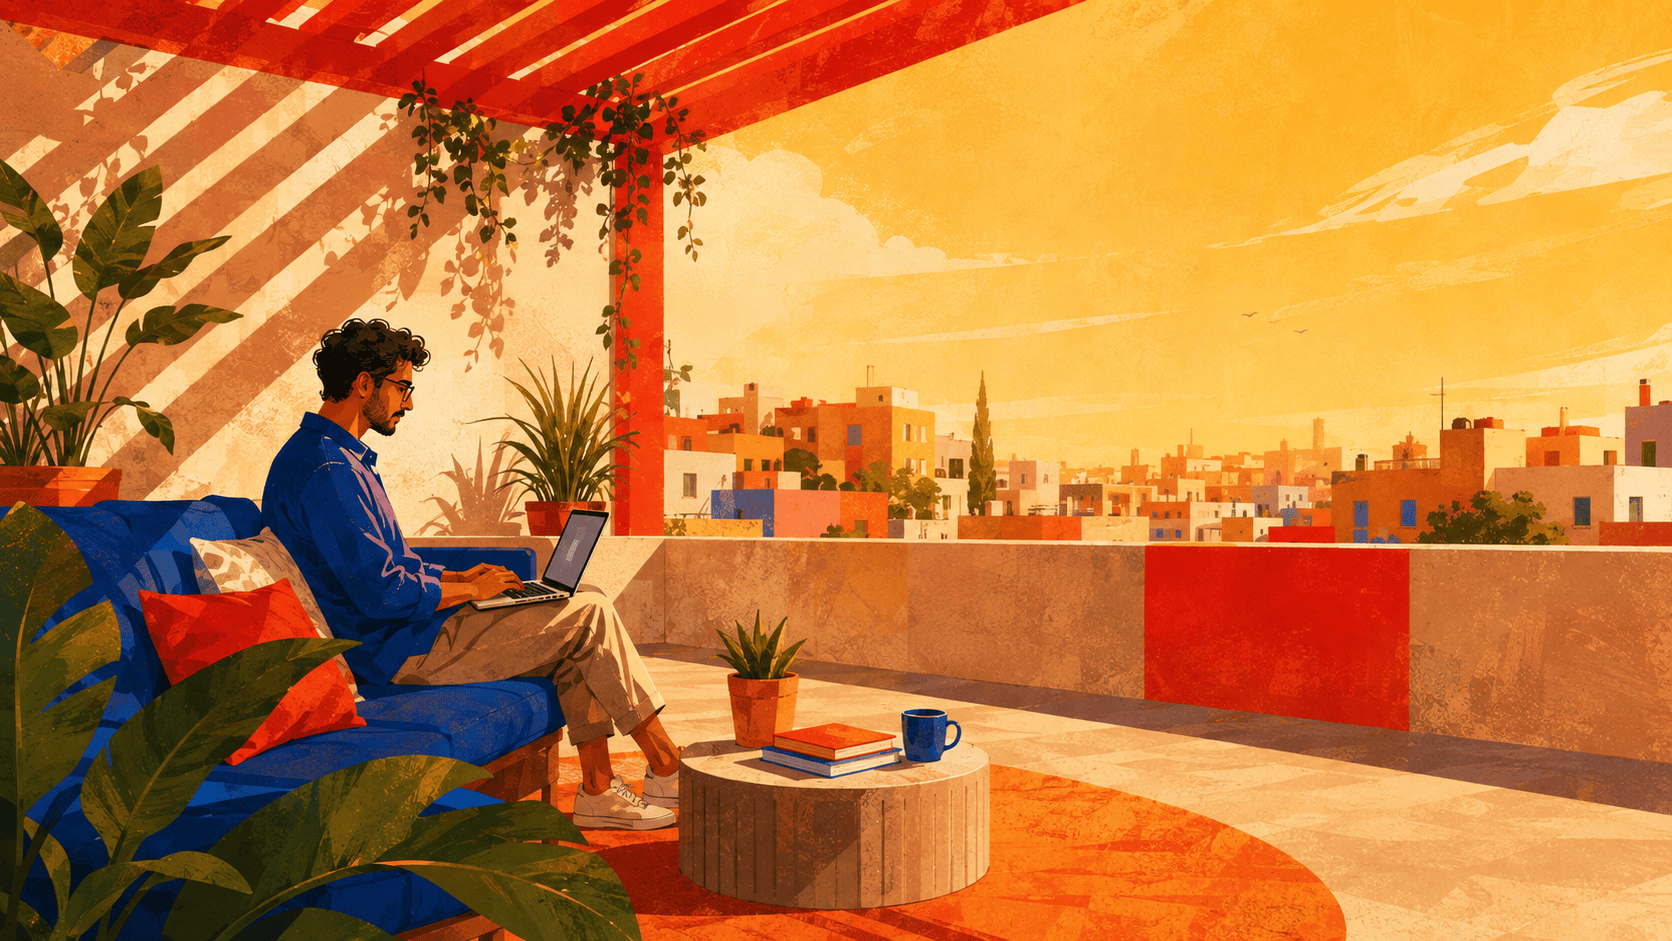
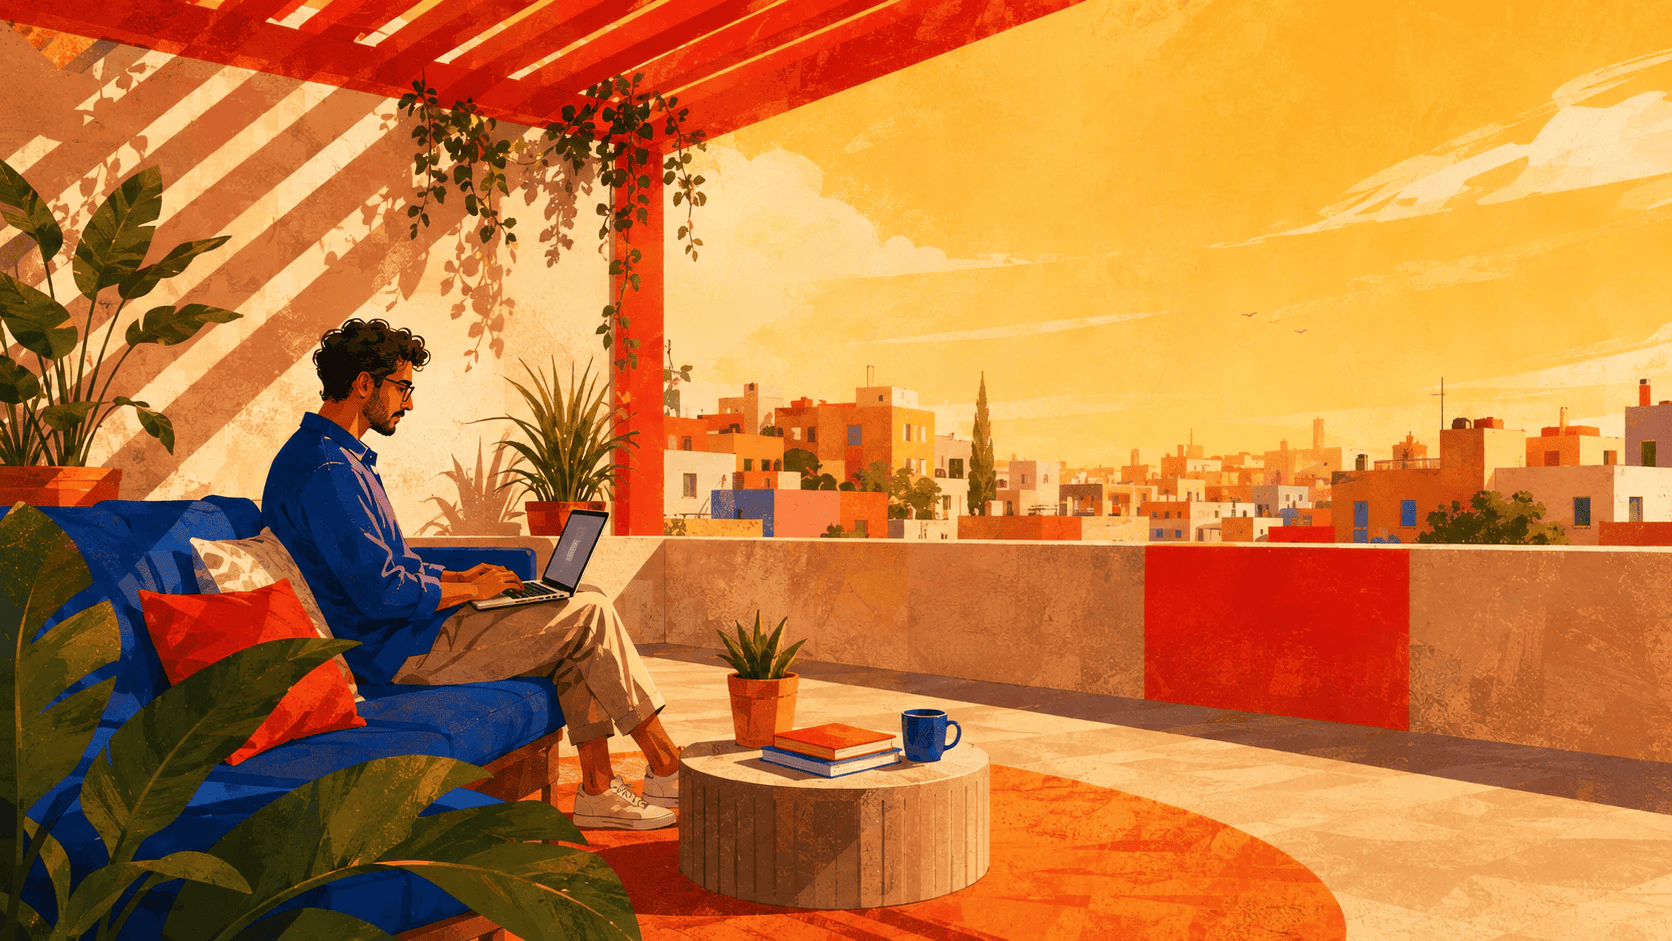
size decrease

Changed region(s): [[0.2177, 0.5547, 0.2488, 0.6164], [0.0, 0.2465, 0.0311, 0.2774]]

diff --git a/src/styles/responsive-small.css b/src/styles/responsive-small.css
@@ -1,6 +1,5 @@
 @media (max-width: 38rem) {
   .public-header-inner,
-  .public-footer,
   .home-hero,
   .home-section,
   .tag-page,
@@ -59,12 +58,32 @@
     z-index: 2;
   }
 
-  .public-footer { margin-top: 3rem; padding: 0.65rem; border-radius: 1.2rem; }
-  .public-footer-panel { padding: 1.6rem 1.25rem; border-radius: 0.95rem; }
-  .public-footer-main { grid-template-columns: 1fr; gap: 2rem; }
-  .public-footer-links { grid-template-columns: 1fr 1fr; gap: 2rem 1.5rem; }
-  .public-footer-reserve { grid-column: auto; }
-  .public-footer-bottom { align-items: flex-start; flex-direction: column; }
+  .public-ending-backdrop {
+    height: clamp(36rem, 145vw, 46rem);
+    background-position: 42% center;
+    -webkit-mask-image: linear-gradient(to bottom, transparent 0%, transparent 5%, #000 30%, #000 92%, transparent 100%);
+    mask-image: linear-gradient(to bottom, transparent 0%, transparent 5%, #000 30%, #000 92%, transparent 100%);
+  }
+  .public-footer { margin-top: 2.5rem; padding-bottom: 0.75rem; }
+  .public-footer-panel {
+    width: calc(100% - 1.5rem);
+    padding: 1.5rem 1.2rem;
+    border-radius: 1rem;
+    background: rgb(255 255 255 / 0.97);
+  }
+  .public-footer-main { grid-template-columns: 1fr; gap: 1.6rem; }
+  .public-footer-identity > p { margin-top: 0.7rem; font-size: 0.95rem; line-height: 1.5; }
+  .public-footer-links { grid-template-columns: 1fr 1fr; gap: 1.35rem 1rem; }
+  .public-footer-links nav { gap: 0.55rem; }
+  .public-footer-links a { font-size: 0.82rem; }
+  .public-footer-reserve { display: none; }
+  .public-footer-bottom {
+    margin-top: 1.8rem;
+    padding-top: 1rem;
+    align-items: flex-start;
+    flex-direction: column;
+    font-size: 0.7rem;
+  }
   .inline-search-panel { position: fixed; top: 4.4rem; right: 0.5rem; left: 0.5rem; width: auto; }
   .section-intro { align-items: flex-start; flex-direction: column; }
 
@@ -137,7 +156,8 @@
   .application-story-sections .markdown-content { font-size: 1rem; }
   .related-applications { padding-top: 3.2rem; }
   .related-applications-heading { margin-bottom: 1.5rem; }
-  .related-application-shelf { width: calc(100% + 1rem); padding: 0 1rem 1rem 0; display: flex; gap: 1.75rem; overflow-x: auto; scroll-snap-type: x proximity; }
+  .related-application-shelf { width: calc(100% + 1rem); padding: 0 1rem 1rem 0; display: flex; gap: 1.75rem; overflow-x: auto; scrollbar-width: none; scroll-snap-type: x proximity; }
+  .related-application-shelf::-webkit-scrollbar { display: none; }
   .related-application-shelf > a { min-width: 5.1rem; flex-direction: column; align-items: flex-start; gap: 0.7rem; scroll-snap-align: start; }
   .related-application-shelf strong { max-width: 5.2rem; font-size: 0.8rem; }
   .policy-page { width: min(calc(100% - 2rem), 62rem); }

diff --git a/src/styles/public-shell.css b/src/styles/public-shell.css
@@ -23,7 +23,9 @@
   --header-accent-soft: oklch(0.95 0.045 82);
   --header-line: oklch(0.9 0.018 82);
   min-height: 100vh;
+  position: relative;
   overflow: clip;
+  isolation: isolate;
   color: var(--public-ink);
   background: var(--header-canvas);
   font-family: var(--font-urbanist), "Avenir Next", sans-serif;
@@ -373,16 +375,35 @@
 
 @keyframes search-spin { to { transform: rotate(360deg); } }
 
+.public-page-content,
 .public-footer {
-  width: min(calc(100% - 2rem), var(--content-width));
-  margin: 4rem auto 1rem;
-  padding: clamp(1rem, 2vw, 1.6rem);
-  overflow: hidden;
-  border-radius: 1.75rem;
-  background: url("/footer-studio-desk.png") center / cover no-repeat;
+  position: relative;
+  z-index: 1;
+}
+
+.public-ending-backdrop {
+  width: 100%;
+  height: clamp(34rem, 48vw, 46rem);
+  position: absolute;
+  right: 0;
+  bottom: 0;
+  left: 0;
+  z-index: 0;
+  pointer-events: none;
+  background: url("/footer-studio-desk.webp") center / cover no-repeat;
+  -webkit-mask-image: linear-gradient(to bottom, transparent 0%, transparent 8%, #000 36%, #000 90%, transparent 100%);
+  mask-image: linear-gradient(to bottom, transparent 0%, transparent 8%, #000 36%, #000 90%, transparent 100%);
+}
+
+.public-footer {
+  width: 100%;
+  margin: clamp(5rem, 8vw, 8rem) 0 0;
+  padding: 0 0 clamp(1rem, 2vw, 1.5rem);
 }
 
 .public-footer-panel {
+  width: min(calc(100% - 2rem), var(--content-width));
+  margin-inline: auto;
   padding: clamp(2rem, 4vw, 3.75rem);
   border: 1px solid rgb(255 255 255 / 0.9);
   border-radius: 1.4rem;

diff --git a/src/components/public-site.tsx b/src/components/public-site.tsx
@@ -71,7 +71,8 @@ export function PublicShell({ children }: { children: ReactNode }) {
     <div className="public-site">
       <a className="skip-link" href="#main-content">Skip to content</a>
       <PublicHeader />
-      {children}
+      <div className="public-page-content">{children}</div>
+      <div className="public-ending-backdrop" aria-hidden="true" />
       <PublicFooter />
     </div>
   );
